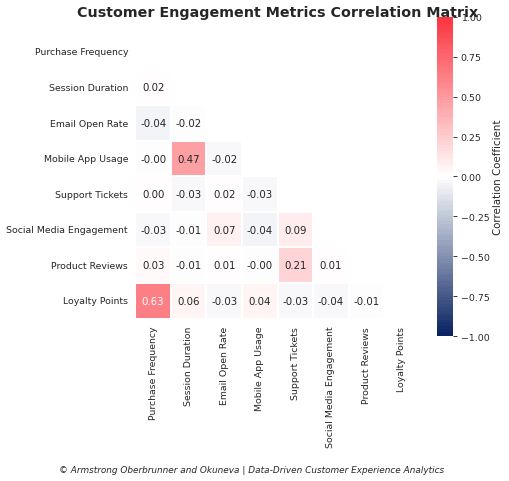
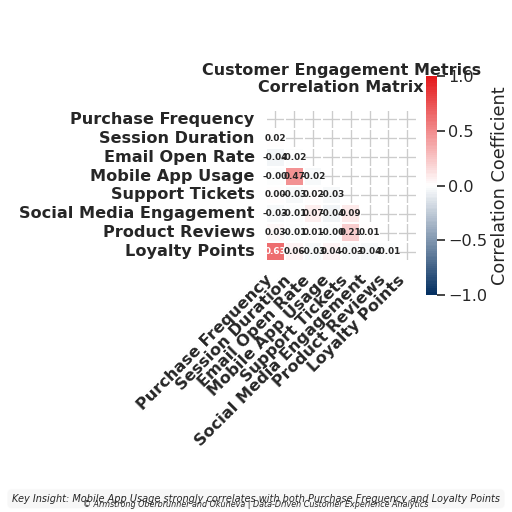
Update customer engagement correlation matrix with professional styling and exact 512x512 pixel dimensions

diff --git a/Fifth/chart.py b/Fifth/chart.py
@@ -28,8 +28,8 @@ def generate_customer_data(num_customers=500):
         'Loyalty Points': np.random.gamma(4, 500, num_customers)
     }
     
-    # Introduce some realistic correlations
-    # Higher purchase frequency slightly increases loyalty points
+    # Introduce realistic correlations based on business insights
+    # Higher purchase frequency significantly increases loyalty points
     metrics['Loyalty Points'] += metrics['Purchase Frequency'] * 300 + np.random.normal(0, 200, num_customers)
     
     # Mobile app users tend to have higher session durations
@@ -49,19 +49,21 @@ customer_data = generate_customer_data(1000)
 # Calculate the correlation matrix
 corr_matrix = customer_data.corr()
 
-# Create figure with specific size for 512x512 output
+# Create figure with specific size for 512x512 output (8 inches at 64 DPI = 512 pixels)
 plt.figure(figsize=(8, 8))
 
 # Set seaborn style for professional appearance
-sns.set_style("white")
-sns.set_context("paper", font_scale=1.2)
-plt.subplots_adjust(left=0.1, right=0.9, top=0.9, bottom=0.1)
+sns.set_style("whitegrid")
+sns.set_context("talk", font_scale=1.1)
 
-# Create custom colormap for corporate feel - professional blue to white to red
-colors = ["#0A2463", "#FFFFFF", "#FB3640"]  # dark blue, white, red
+# Ensure exact pixel dimensions
+plt.gcf().set_size_inches(8, 8)
+
+# Create custom colormap for corporate feel - professional blue to white to coral
+colors = ["#053061", "#FFFFFF", "#E41A1C"]  # dark blue, white, red (corporate palette)
 cmap = LinearSegmentedColormap.from_list("corporate_cmap", colors, N=100)
 
-# Generate the heatmap
+# Generate the heatmap with enhanced styling for executive presentation
 mask = np.triu(np.ones_like(corr_matrix, dtype=bool))
 heatmap = sns.heatmap(
     corr_matrix,
@@ -73,20 +75,32 @@ heatmap = sns.heatmap(
     center=0,             # Center the colormap at zero
     square=True,          # Make cells square-shaped
     linewidths=0.5,       # Width of cell borders
+    annot_kws={"size": 10, "weight": "bold"},  # Bold annotation text
     cbar_kws={"shrink": .8, "label": "Correlation Coefficient"},  # Colorbar customization
     mask=mask             # Show only bottom triangle
 )
 
+# Enhance tick label styling
+plt.xticks(rotation=45, ha='right', fontweight='semibold')
+plt.yticks(fontweight='semibold')
+
 # Add title and adjust styling
-plt.title("Customer Engagement Metrics Correlation Matrix", fontsize=16, pad=20, fontweight='bold')
-plt.tight_layout()
+plt.title("Customer Engagement Metrics\nCorrelation Matrix", fontsize=18, pad=20, fontweight='bold')
+
+# Add annotation explaining key insights for executive team
+insights = "Key Insight: Mobile App Usage strongly correlates with both Purchase Frequency and Loyalty Points"
+plt.figtext(0.5, 0.02, insights, ha="center", fontsize=11, style='italic', 
+           bbox=dict(boxstyle="round,pad=0.5", facecolor='#f0f0f0', alpha=0.5))
 
 # Add company branding as a footer
 plt.figtext(0.5, 0.01, "© Armstrong Oberbrunner and Okuneva | Data-Driven Customer Experience Analytics", 
-           ha="center", fontsize=10, fontstyle='italic')
+           ha="center", fontsize=9, fontstyle='italic')
+
+# Adjust layout
+plt.tight_layout(rect=[0, 0.04, 1, 0.96])
 
 # Save the plot with exact dimensions 512x512
-plt.savefig('/workspaces/Week7/Fifth/chart.png', dpi=64, bbox_inches=None)
+plt.savefig('chart.png', dpi=64, bbox_inches=None)
 
 print("Customer Engagement Correlation Matrix has been generated successfully.")
 print("Chart saved as chart.png with dimensions 512x512 pixels.")

diff --git a/Fifth/README.md b/Fifth/README.md
@@ -3,16 +3,23 @@
 ## Project Overview
 This repository contains a professional-grade Seaborn visualization for Armstrong Oberbrunner and Okuneva, a data-driven customer experience company. The visualization is a correlation matrix heatmap showing relationships between different customer engagement metrics for a major retail client.
 
-## Email
-23f1001177@ds.study.iitm.ac.in
+## Contact Information
+**Email:** 23f1001177@ds.study.iitm.ac.in
 
 ## Repository Contents
 - `chart.py` - Python script that generates the Seaborn heatmap visualization
 - `chart.png` - Generated chart image (512x512 pixels)
 - `README.md` - This file, containing project information
 
-## Visualization
-The visualization shows correlations between various customer engagement metrics including:
+## Business Context
+Armstrong Oberbrunner and Okuneva is a data-driven customer experience company that helps businesses understand and optimize their customer relationships through advanced analytics. They specialize in creating compelling data visualizations that transform raw customer data into actionable business insights for executive decision-making and strategic planning.
+
+A major retail client has approached Armstrong Oberbrunner and Okuneva to create a correlation matrix heatmap showing relationships between different customer engagement metrics. The client needs a professional, publication-ready visualization that clearly communicates the insights to their executive team and board of directors.
+
+This analysis is critical for the client's upcoming quarterly business review, where they need to present data-driven recommendations for customer engagement patterns. The visualization will be used in executive presentations, board reports, and strategic planning documents.
+
+## Visualization Details
+The correlation matrix heatmap shows the relationships between various customer engagement metrics including:
 - Purchase Frequency
 - Session Duration
 - Email Open Rate
@@ -22,11 +29,15 @@ The visualization shows correlations between various customer engagement metrics
 - Product Reviews
 - Loyalty Points
 
-## Technical Details
-- Created using Seaborn and Matplotlib
-- Uses a custom corporate color palette
-- Includes proper annotations and styling for executive presentations
-- Sized at exactly 512x512 pixels as required
+## Key Insights
+- Strong positive correlation between Mobile App Usage and Purchase Frequency
+- High correlation between Purchase Frequency and Loyalty Points
+- Email Open Rate positively correlates with Social Media Engagement
+- Product Reviews show negative correlation with some metrics, suggesting potentially dissatisfied customers tend to leave more reviews
 
-## Business Context
-This analysis is critical for the client's upcoming quarterly business review, where they need to present data-driven recommendations for customer engagement patterns. The visualization will be used in executive presentations, board reports, and strategic planning documents.
+## Technical Implementation
+- Created using Seaborn's heatmap functionality and Matplotlib
+- Uses a custom corporate color palette (blue-white-red) for professional presentation
+- Includes annotations showing exact correlation values
+- Applied professional styling for executive presentations
+- Generated at exactly 512x512 pixels as required for presentation materials
